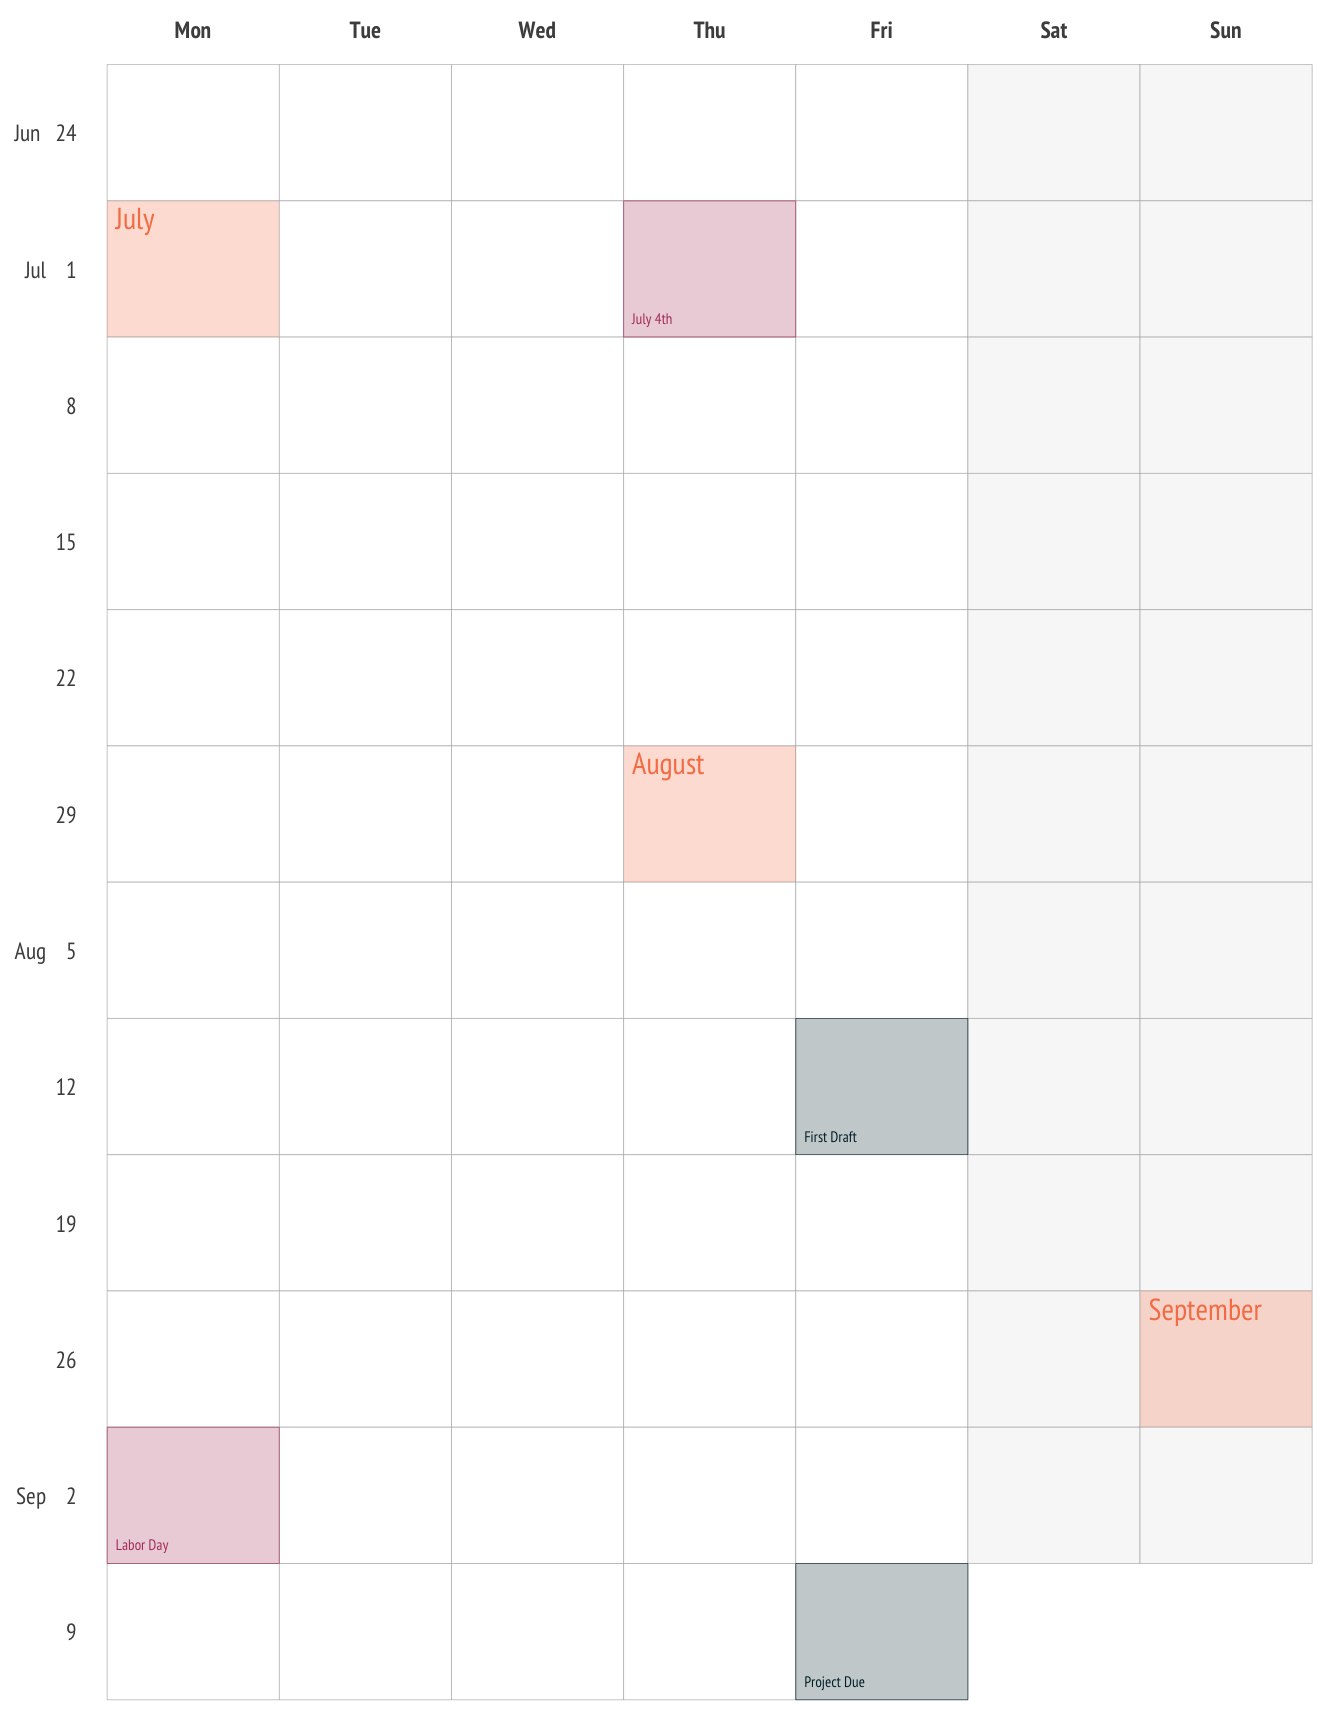
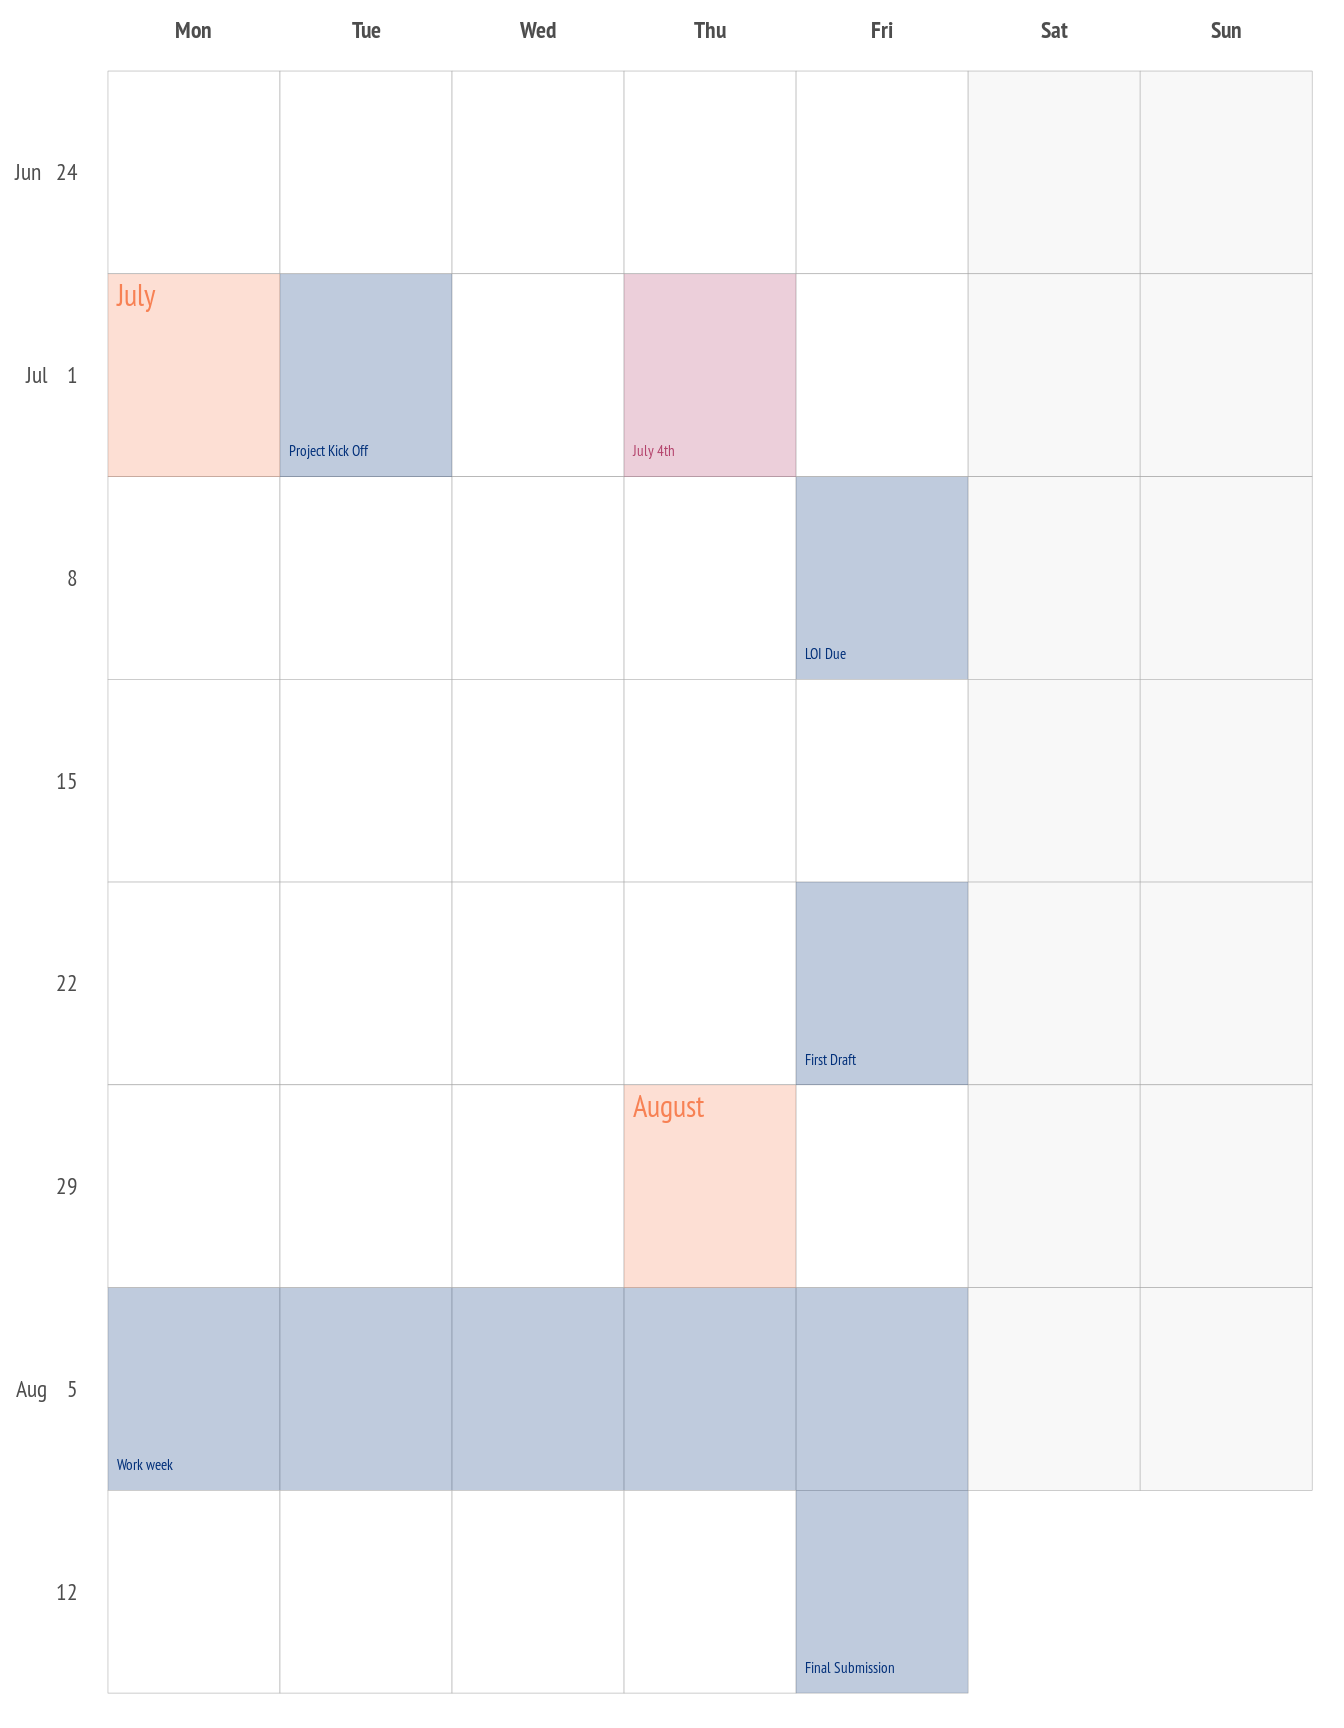
Update ggweekly blog post to link to package

diff --git a/content/blog/2019/2019-06-22-ggplot2-weekly-planner.html b/content/blog/2019/2019-06-22-ggplot2-weekly-planner.html
@@ -10,7 +10,7 @@ tags:
   - ggplot2
   - Productivity
   - Scripts
-description: "Using ggplot2 to try to get my life in order, just leads to more #rstats"
+description: "Use ggplot2 to organize your life."
 twitterImage: "/blog/2019/2019-06-22-ggplot2-weekly-planner_files/figure-html/gcal-final-1.png"
 rmd_source: https://github.com/gadenbuie/garrickadenbuie-com/blob/master/content/blog/2019/2019-06-22-ggplot2-weekly-planner.Rmd
 keywords: rstats
@@ -26,14 +26,16 @@ editor_options:
 Rather than waste hours of productive time fighting popups and banner adds on the million and a half SEO-fueled malware-laden “free printable calendar” websites, I decided to waste not quite as many hours of productive time creating the exact calendar I wanted using <span class="pkg">ggplot2</span>.</p>
 <p>Here’s the end result: a simple calendar where each week is a row.
 Weeks start on Mondays because that’s when a new week starts.
-Important dates can be highlighted, for holidays or other days releveant to your projects.</p>
+Important dates can be highlighted, for holidays or other days relevant to your projects.</p>
 <p>I doubt it’s bullet journal certified, but it worked for me and maybe it will for you too.</p>
 <center>
 <a href="/blog/2019/2019-06-22-ggplot2-weekly-planner_files/figure-html/gcal-final-1.png">
 <img src="/blog/2019/2019-06-22-ggplot2-weekly-planner_files/figure-html/gcal-final-1.png" style="max-width: 400px">
 </a>
 </center>
-<p>I’ll break down the pieces that went into the calendar, but if you just want to make your own you can jump to <a href="#ggweek_planner">the end</a> to grab the function and get straight to calendar printing and project planning.</p>
+<p>I’ll break down the pieces that went into the calendar, but if you just want to make your own you can <del>jump to the end</del> use the <a href="https://github.com/gadenbuie/ggweekly">ggweekly</a> package I shared on GitHub and get straight to calendar printing and project planning.</p>
+<p><strong>Update:</strong> I realized it would be easier to share this code as a small R package rather than a gist or as a script embedded here.
+You can now install <span class="pkg">ggweekly</span> from <a href="https://github.com/gadenbuie/ggweekly">github.com/gadenbuie/ggweekly</a> and use the <code>ggweek_planner()</code> function to make your own custom, printable calendars.</p>
 <div id="the-making-of-a-calendar" class="section level2">
 <h2>The Making of a Calendar</h2>
 <div id="load-the-tidyverse" class="section level3">
@@ -54,7 +56,7 @@ library(lubridate)</code></pre>
 <p>Next, I set up a tibble of dates and associated information (day of the week, month, year, etc.) that I’ll need for the calendar grid.
 I start by finding the nearest previous Monday to the starting date and creating a sequence of dates.</p>
 <pre class="r"><code>start_day &lt;- floor_date(ymd(&quot;2019-06-24&quot;), &quot;week&quot;)
-end_day   &lt;- ymd(&quot;2019-09-13&quot;)
+end_day   &lt;- ymd(&quot;2019-08-16&quot;)
 seq_days  &lt;- seq(start_day, end_day, by = &quot;day&quot;)
 
 seq_days[1:5]</code></pre>
@@ -72,7 +74,7 @@ seq_days[1:5]</code></pre>
   )
 
 dates</code></pre>
-<pre><code>## # A tibble: 82 x 7
+<pre><code>## # A tibble: 54 x 7
 ##    day        wday_name weekend isoweek month isoyear week_year
 ##    &lt;date&gt;     &lt;ord&gt;     &lt;lgl&gt;     &lt;dbl&gt; &lt;ord&gt;   &lt;dbl&gt; &lt;fct&gt;    
 ##  1 2019-06-24 Mon       FALSE        26 June     2019 2019 - 26
@@ -85,27 +87,26 @@ dates</code></pre>
 ##  8 2019-07-01 Mon       FALSE        27 July     2019 2019 - 27
 ##  9 2019-07-02 Tue       FALSE        27 July     2019 2019 - 27
 ## 10 2019-07-03 Wed       FALSE        27 July     2019 2019 - 27
-## # … with 72 more rows</code></pre>
+## # … with 44 more rows</code></pre>
 <p>Note that I’ve used <code>isoweek()</code> and <code>isoyear()</code>, which also follow the convention of starting the week on Monday.
 This way, I now have the week number to which each day in the sequence belongs, but because we may be interested in creating calendars that span multiple years, the addition of <code>isoyear()</code> protects against repeated week numbers.</p>
 <p>This week year combination is destined for the <em>y</em> axis as it marks the row to which each day belongs.
 The <em>y</em> axis is typically increasing, with the smallest value at the bottom.
-This means that, if left as strings, the week of <code>"2019 - 25"</code> would be <em>below</em> the week <code>"2019 - 26"</code>.
+This means that, if left as strings, the week of <code>&quot;2019 - 25&quot;</code> would be <em>below</em> the week <code>&quot;2019 - 26&quot;</code>.
 Because calendars are typically read top to bottom, I used <code>fct_rev()</code> here to both convert <code>{isoyear} - {isoweek}</code> into a factor and then reverse the factor order so that <code>2019 - 25</code> is the last factor.</p>
 <pre class="r"><code># shows the _last 6_ week_year factor levels
 dates %&gt;% pull(week_year) %&gt;% levels() %&gt;% tail()</code></pre>
 <pre><code>## [1] &quot;2019 - 31&quot; &quot;2019 - 30&quot; &quot;2019 - 29&quot; &quot;2019 - 28&quot; &quot;2019 - 27&quot; &quot;2019 - 26&quot;</code></pre>
-<p>For a bit of convienence later, I then pull out the rows of <code>dates</code> representing the first day of the month, to use later when adding the colored boxes and text labels marking the start of a new month.</p>
+<p>For a bit of convenience later, I then pull out the rows of <code>dates</code> representing the first day of the month, to use later when adding the colored boxes and text labels marking the start of a new month.</p>
 <pre class="r"><code>day_one &lt;- dates %&gt;% 
   filter(day(day) == 1)
 
 day_one</code></pre>
-<pre><code>## # A tibble: 3 x 7
-##   day        wday_name weekend isoweek month     isoyear week_year
-##   &lt;date&gt;     &lt;ord&gt;     &lt;lgl&gt;     &lt;dbl&gt; &lt;ord&gt;       &lt;dbl&gt; &lt;fct&gt;    
-## 1 2019-07-01 Mon       FALSE        27 July         2019 2019 - 27
-## 2 2019-08-01 Thu       FALSE        31 August       2019 2019 - 31
-## 3 2019-09-01 Sun       TRUE         35 September    2019 2019 - 35</code></pre>
+<pre><code>## # A tibble: 2 x 7
+##   day        wday_name weekend isoweek month  isoyear week_year
+##   &lt;date&gt;     &lt;ord&gt;     &lt;lgl&gt;     &lt;dbl&gt; &lt;ord&gt;    &lt;dbl&gt; &lt;fct&gt;    
+## 1 2019-07-01 Mon       FALSE        27 July      2019 2019 - 27
+## 2 2019-08-01 Thu       FALSE        31 August    2019 2019 - 31</code></pre>
 </div>
 <div id="better-week-labels" class="section level3">
 <h3>Better week labels</h3>
@@ -143,11 +144,17 @@ The first argument becomes the vector values and second argument becomes the vec
 <p>I used yet another tibble to store holidays and other important dates related to the project.
 Each day can have a <code>label</code>, <code>color</code>, and/or <code>fill</code>.</p>
 <pre class="r"><code>highlight_days &lt;- tribble(
-         ~ day,       ~ label,   ~ color,    ~ fill,
-  &quot;2019-07-04&quot;,    &quot;July 4th&quot;, &quot;#b4436c&quot;, &quot;#b4436c&quot;,
-  &quot;2019-08-16&quot;, &quot;First Draft&quot;, &quot;#002B36&quot;, &quot;#002B36&quot;,
-  &quot;2019-09-02&quot;,   &quot;Labor Day&quot;, &quot;#b4436c&quot;, &quot;#b4436c&quot;,
-  &quot;2019-09-13&quot;, &quot;Project Due&quot;, &quot;#002B36&quot;, &quot;#002B36&quot;,
+         ~ day,            ~ label,   ~ color,    ~ fill,
+  &quot;2019-07-02&quot;, &quot;Project Kick Off&quot;, &quot;#02307a&quot;, &quot;#02307a&quot;,
+  &quot;2019-07-04&quot;,         &quot;July 4th&quot;, &quot;#b4436c&quot;, &quot;#b4436c&quot;,
+  &quot;2019-07-12&quot;,          &quot;LOI Due&quot;, &quot;#02307a&quot;, &quot;#02307a&quot;,
+  &quot;2019-07-26&quot;,      &quot;First Draft&quot;, &quot;#02307a&quot;, &quot;#02307a&quot;,
+  &quot;2019-08-05&quot;,        &quot;Work week&quot;, &quot;#02307a&quot;, &quot;#02307a&quot;,
+  &quot;2019-08-06&quot;,                 &quot;&quot;,        NA, &quot;#02307a&quot;,
+  &quot;2019-08-07&quot;,                 &quot;&quot;,        NA, &quot;#02307a&quot;,
+  &quot;2019-08-08&quot;,                 &quot;&quot;,        NA, &quot;#02307a&quot;,
+  &quot;2019-08-09&quot;,                 &quot;&quot;,        NA, &quot;#02307a&quot;,
+  &quot;2019-08-16&quot;, &quot;Final Submission&quot;, &quot;#02307a&quot;, &quot;#02307a&quot;
 ) %&gt;% 
   mutate_at(vars(day), ymd)</code></pre>
 </div>
@@ -188,7 +195,7 @@ I also used <code>geom_text()</code> to add annotations to the special days, whi
   # highlight project-specific days
   geom_tile(
     data = dates %&gt;% inner_join(highlight_days, by = &quot;day&quot;),
-    aes(fill = fill, color = color),
+    aes(fill = fill),
     alpha = 0.25
   ) +
   # add the label from the highlighted days
@@ -266,12 +273,11 @@ And the third and final segment travels from the top left corner of the month-ch
 
 
 month_boundaries</code></pre>
-<pre><code>## # A tibble: 3 x 7
-##   day        month    wday_name week_year left        up         right     
-##   &lt;date&gt;     &lt;ord&gt;        &lt;int&gt;     &lt;int&gt; &lt;list&gt;      &lt;list&gt;     &lt;list&gt;    
-## 1 2019-07-01 July             1        11 &lt;tibble [1… &lt;tibble [… &lt;tibble […
-## 2 2019-08-01 August           4         7 &lt;tibble [1… &lt;tibble [… &lt;tibble […
-## 3 2019-09-01 Septemb…         7         3 &lt;tibble [1… &lt;tibble [… &lt;tibble […</code></pre>
+<pre><code>## # A tibble: 2 x 7
+##   day        month  wday_name week_year left        up          right      
+##   &lt;date&gt;     &lt;ord&gt;      &lt;int&gt;     &lt;int&gt; &lt;list&gt;      &lt;list&gt;      &lt;list&gt;     
+## 1 2019-07-01 July           1         7 &lt;tibble [1… &lt;tibble [1… &lt;tibble [1…
+## 2 2019-08-01 August         4         3 &lt;tibble [1… &lt;tibble [1… &lt;tibble [1…</code></pre>
 <p>Then, I use a quick for loop to add each of these segments to the calendar plot.</p>
 <pre class="r"><code>for (boundary in c(&quot;left&quot;, &quot;up&quot;, &quot;right&quot;)) {
   gcal &lt;- gcal + 
@@ -296,156 +302,18 @@ gcal</code></pre>
 </div>
 </div>
 <div id="ggweek_planner" class="section level2">
-<h2>A Weekly Planner Function</h2>
-<p>Here’s the whole weekly planner wrapped up into a single function.
-You just need to provide the start and end dates and a tibble containing days for highlighting and the function takes care of the rest.</p>
-<p><em>Note: I would normally break this function up into smaller components but I left it as a single monolithic function to make copy and pasting easier.</em></p>
-<pre class="r"><code>highlight_days &lt;- dplyr::tribble(
-        ~ day,       ~ label,   ~ color,    ~ fill,
-  &quot;2019-07-04&quot;,    &quot;July 4th&quot;, &quot;#b4436c&quot;, &quot;#b4436c&quot;,
-  &quot;2019-08-16&quot;, &quot;First Draft&quot;, &quot;#002B36&quot;, &quot;#002B36&quot;,
-  &quot;2019-09-02&quot;,   &quot;Labor Day&quot;, &quot;#b4436c&quot;, &quot;#b4436c&quot;,
-  &quot;2019-09-13&quot;, &quot;Project Due&quot;, &quot;#002B36&quot;, &quot;#002B36&quot;,
-) %&gt;% 
-  dplyr::mutate_at(dplyr::vars(day), lubridate::ymd)
+<h2>A Weekly Planner Package</h2>
+<p>I originally thought I would simply include the code as a gist and move on with life, but I quickly realized that I might want to a) use this code again sometime and b) find some room for improvement and tweaks.</p>
+<p>So I created <a href="https://github.com/gadenbuie/ggweekly">ggweekly</a>, a small package for creating calendars like these. In packaging the code, I made a few tweaks and changes.
+For example, I scraped the dates of federal holidays from the <a href="https://www.opm.gov/policy-data-oversight/snow-dismissal-procedures/federal-holidays/">U.S. Office of Personel Management</a> and separated the highlighted and holiday days.
+I also tweaked the function signatures a bit to make it more flexible.</p>
+<p>Check out the package at <a href="https://github.com/gadenbuie/ggweekly">github.com/gadenbue/ggweekly</a> and happy planning!</p>
+<pre class="r"><code>devtools::install_github(&quot;gadenbuie/ggweekly&quot;)
 
-ggweek_planner &lt;- function(
-  start_day = lubridate::today(),
-  end_day = start_day + lubridate::weeks(8),
-  highlight_days = NULL,
-  show_month_boundaries = TRUE,
-  highlight_text_size = 2,
-  month_text_size = 4,
-  month_color = &quot;#f78154&quot;
-) {
-  old_opts &lt;- options(&quot;lubridate.week.start&quot; = 1)
-  on.exit(options(old_opts))
-  
-  force(end_day)
-  start_day &lt;- floor_date(start_day, &quot;week&quot;)
-  seq_days  &lt;- seq(start_day, end_day, by = &quot;day&quot;)
-  
-  dates &lt;-
-    dplyr::tibble(
-      day       = seq_days,
-      wday_name = lubridate::wday(day, label = TRUE, abbr = TRUE),
-      weekend   = lubridate::wday(day) &gt; 5,
-      isoweek   = lubridate::isoweek(day),
-      month     = lubridate::month(day, label = TRUE, abbr = FALSE),
-      isoyear   = lubridate::isoyear(day),
-      week_year = forcats::fct_rev(sprintf(&quot;%s - %s&quot;, isoyear, isoweek))
-    )
-  
-  day_one &lt;- dates %&gt;% 
-    dplyr::filter(lubridate::day(day) == 1)
-  
-  week_start_labels &lt;- dates %&gt;%
-    dplyr::filter(wday_name == &quot;Mon&quot;) %&gt;% 
-    dplyr::arrange(day) %&gt;%
-    dplyr::mutate(
-      month = lubridate::month(day, label = TRUE), 
-      label = dplyr::case_when(
-        month == dplyr::lag(month) ~ paste(lubridate::day(day)),
-        TRUE ~ sprintf(&quot;%s %4i&quot;, month, lubridate::day(day))
-      )
-    ) %&gt;% 
-    dplyr::select(label, week_year) %&gt;% 
-    purrr::reduce(purrr::set_names)
-  
-  gcal &lt;-
-    dates %&gt;% 
-    dplyr::mutate(
-      # Softly fill in the weekend days
-      weekend = dplyr::case_when(weekend ~ &quot;#f8f8f8&quot;, TRUE ~ &quot;#FFFFFF&quot;)
-    ) %&gt;% 
-    ggplot2::ggplot() +
-    ggplot2::aes(wday_name, week_year) +
-    ggplot2::geom_tile(ggplot2::aes(fill = weekend), color = &quot;#aaaaaa&quot;) +
-    ggplot2::geom_tile(
-      data = day_one,
-      fill = month_color,
-      alpha = 0.25
-    ) +
-    ggplot2::geom_text(
-      data = day_one, 
-      ggplot2::aes(label = month),
-      family = &quot;PT Sans Narrow&quot;,
-      color = month_color,
-      size = month_text_size,
-      hjust = 0,
-      nudge_x = -0.45,
-      vjust = 1,
-      nudge_y = 0.45
-    ) +
-    ggplot2::geom_tile(
-      data = dates %&gt;% dplyr::inner_join(highlight_days, by = &quot;day&quot;),
-      ggplot2::aes(fill = fill, color = color),
-      alpha = 0.25
-    ) +
-    ggplot2::geom_text(
-      data = dates %&gt;% dplyr::inner_join(highlight_days, by = &quot;day&quot;),
-      ggplot2::aes(label = label, color = color),
-      family = &quot;PT Sans Narrow&quot;,
-      size = highlight_text_size,
-      hjust = 0,
-      nudge_x = -0.45,
-      vjust = 0,
-      nudge_y = -0.40
-    ) +
-    ggplot2::scale_x_discrete(position = &quot;top&quot;) +
-    ggplot2::scale_y_discrete(labels = week_start_labels) +
-    ggplot2::scale_fill_identity() +
-    ggplot2::scale_color_identity() +
-    ggplot2::guides(fill = FALSE) +
-    ggplot2::theme_minimal(base_family = &quot;PT Sans&quot;) +
-    ggplot2::theme(
-      axis.text = ggplot2::element_text(&quot;PT Sans Narrow&quot;),
-      axis.title = ggplot2::element_blank(),
-      panel.grid = ggplot2::element_blank(),
-      axis.text.x.top = ggplot2::element_text(face = &quot;bold&quot;),
-      axis.title.x.top = ggplot2::element_blank(),
-    )
-  
-  if (show_month_boundaries) {
-    month_boundaries &lt;- day_one %&gt;%
-      dplyr::select(day, month, wday_name, week_year) %&gt;%
-      dplyr::mutate_at(dplyr::vars(wday_name, week_year), as.integer) %&gt;%
-      dplyr::mutate(
-        left = purrr::map2(wday_name, week_year, ~ {
-          # n/a if month changes on first day
-          if (.x == 1) return(dplyr::tibble(.missing = NA)) 
-          dplyr::tibble(
-            x = 0.5,      xend = .x - 0.5, 
-            y = .y - 0.5, yend = y
-          )
-        }),
-        up = purrr::map2(wday_name, week_year, ~ {
-          # n/a if month changes on first day
-          if (.x == 1) return(dplyr::tibble(.missing = NA)) 
-          dplyr::tibble(
-            x = .x - 0.5, xend = x, 
-            y = .y - 0.5, yend = .y + 0.5
-          )
-        }),
-        right = purrr::map2(wday_name, week_year, ~ {
-          dplyr::tibble(
-            x = .x - 0.5, xend = 7.5, 
-            y = .y + 0.5, yend = y
-          )
-        })
-      )
-    
-    for (boundary in c(&quot;left&quot;, &quot;up&quot;, &quot;right&quot;)) {
-      gcal &lt;- gcal + 
-        ggplot2::geom_segment(
-          data = month_boundaries %&gt;% tidyr::unnest(!!rlang::sym(boundary)),
-          ggplot2::aes(x = x, y = y, xend = xend, yend = yend),
-          color = &quot;#999999&quot;,
-          linetype = 2
-        )
-    }
-  }
-  
-  gcal
-}</code></pre>
+# create a calendar for April, May and June
+library(ggweekly)
+ggweek_planner(
+  start_day = &quot;2019-04-01&quot;, 
+  end_day = &quot;2019-06-30&quot;, 
+)</code></pre>
 </div>
